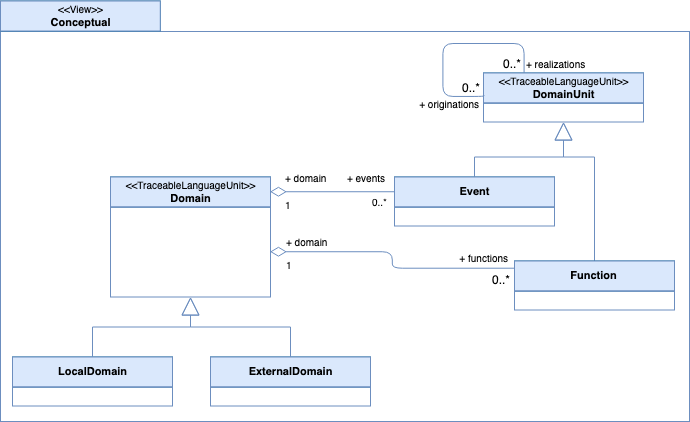
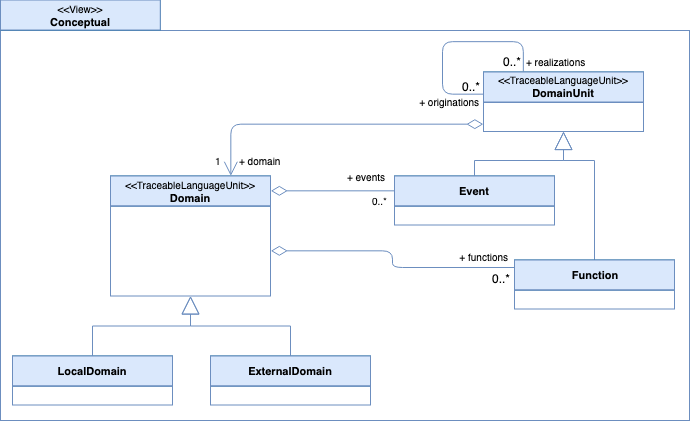
defined DomainUnit

diff --git a/views/conceptual/domain-unit.md b/views/conceptual/domain-unit.md
@@ -1,12 +1,15 @@
 ### DomainUnit
 
-Defines the local concepts associated with a given domain. In the EML conceptual view, these units specialize as events and functions.
+Defines a local concept that is associated with a domain. In the EML conceptual view, these units specialize as `Event` and `Function`.
 
 #### Attributes
 
 Inherits attributes from `TraceableLanguageUnit`. No further attributes are defined.
 
 #### Associations
+
+- `domain` : `Domain` [1]  
+ The domain that the current domain unit belongs to.
 
 - `originations` : `DomainUnit` [0..*]  
 The sources of the current domain unit. For example, an event may be the side effect of an invoked function so it will have an origination from that function.
@@ -20,8 +23,15 @@ No constraints.
 
 #### Semantics
 
-TODO
+The originations and realizations of all the `DomainUnit` within a given domain defines the order of activity within that domain. When combined with other domains, including those that are `ExternalDomain`, it is possible to view and reason about activity in a much broader context including the entire enterprise for example.
+
+Given the cyclic nature of the originations and realizations associations it is easier to reason about them as an eventual graph of domain units. These associations may be intrinsically used by a specialization; `Function` for example will require knowledge of which originating events it should respond to.
 
 #### Notation
 
-TODO
+The notation for `Event` and `Function` are defined seperately, however, a domain unit is drawn within the boundary of its associated `Domain`.
+
+The originations and realizations associations are used to layout the domain units within their domain in the order that they are encountered. For domain units having multiple realizations (`self.realizations->size > 1`), those realized domain units will be stacked vertically in no particualr order. Finally, thin connecting lines between the originating and realized domain units are used to represent the association.
+
+![Domain Unit Associations](../../images/notation-domain-unit-ordering.png)
+

diff --git a/views/conceptual/function.md b/views/conceptual/function.md
@@ -1,6 +1,6 @@
 ### Function
 
-TODO
+Represents a unit of behaviour that is invoked in order to respond to an originating event. The side effect of an invoked function may include the realization of further events, ultimately leading to a cascade of behaviour in the local domain and possibly external to it.
 
 #### Attributes
 
@@ -24,8 +24,10 @@ Functions can only influence other units of behaviour by raising further events.
 
 #### Semantics
 
-TODO
+There are no specific semantics associated with the conceptual view of a function. It is a placeholder for further refinement in the logical view.
 
 #### Notation
 
-TODO
+A function is drawn within the boundary of its containing `Domain` as a rectangular box displaying the `TraceableLanguageUnit::name` property.
+
+![Function](../../images/notation-function.png)

diff --git a/views/conceptual/event.md b/views/conceptual/event.md
@@ -1,6 +1,6 @@
 ### Event
 
-TODO
+A message that captures the data regarding the change of state within a domain. The originator of the event only knows about the occurrence of the event, and by implication, knows nothing about the causal effect that the event may have.
 
 #### Attributes
 
@@ -26,8 +26,10 @@ While it is obvious that we want causal connections between events in an event d
 
 #### Semantics
 
-TODO
+There are no specific semantics associated with the conceptual view of an event. It is a placeholder for further refinement in the logical view.
 
 #### Notation
 
-TODO
+An event is drawn within the boundary of its containing `Domain` as a rectangular box displaying the `TraceableLanguageUnit::name` property.
+
+![Event](../../images/notation-event.png)

diff --git a/toc.md b/toc.md
@@ -1,7 +1,7 @@
 # [Introduction](introduction.md)
 # [Views](views/index.md)
 ## [The Conceptual View](views/conceptual/index.md)
-### [Class Descriptions]
+### Class Descriptions
 #### [Domain](views/conceptual/domain.md)
 #### [LocalDomain](views/conceptual/local-domain.md)
 #### [ExternalDomain](views/conceptual/external-domain.md)
